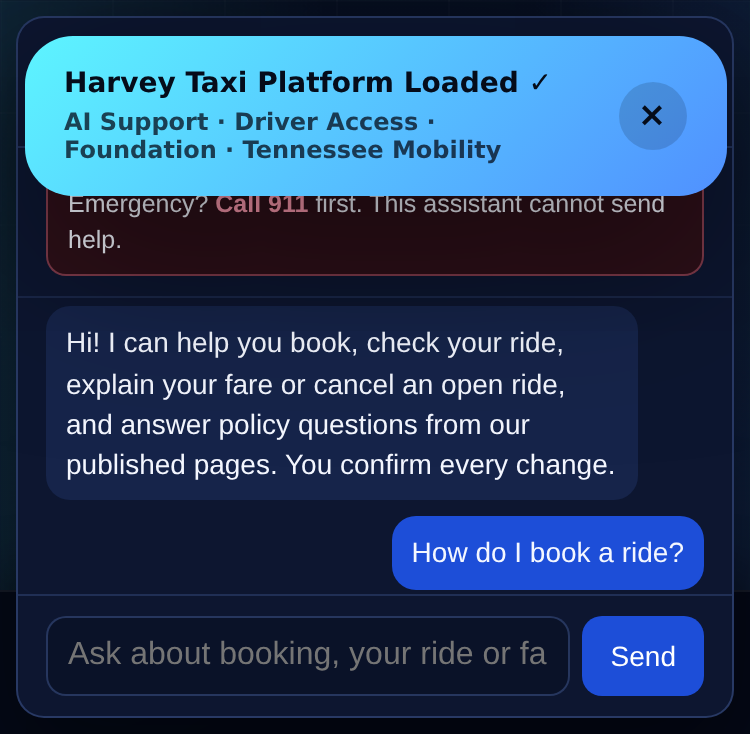
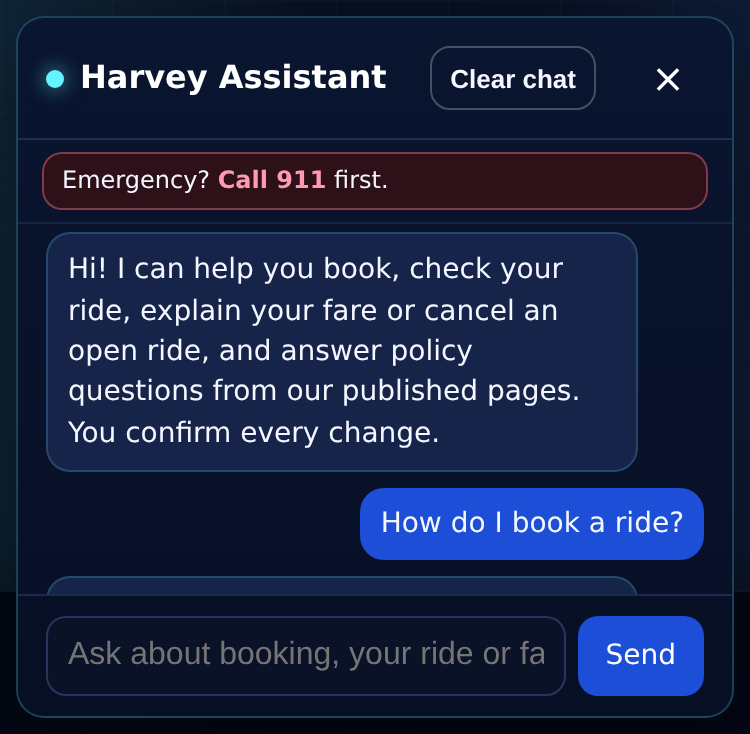
Hide welcome toast and teaser while Harvey Assistant is open; assert nothing covers the panel

diff --git a/test/index-assistant.browser.test.js b/test/index-assistant.browser.test.js
@@ -132,6 +132,19 @@ describeWithBrowser("Harvey Taxi Mobile index page: the chat on small phones", (
       if (SHOTS) await page.screenshot({ path: path.join(SHOTS, `${phone.name}-chat.png`) });
       const panelVisible = await page.evaluate(() => { const p = document.getElementById("htaPanel"); return Boolean(p && p.classList.contains("open")); });
       expect(panelVisible).toBe(true);
+      // Nothing on the page (welcome toast, teaser) sits over the panel's
+      // header, 911 line or input.
+      const onTop = await page.evaluate(() => {
+        const p = document.getElementById("htaPanel");
+        return ["header, .hta-head", ".hta-911", "input[type=text]"].map((sel) => {
+          const n = p.querySelector(sel);
+          if (!n) return `${sel}: missing`;
+          const r = n.getBoundingClientRect();
+          const hit = document.elementFromPoint(r.left + r.width / 2, r.top + Math.min(r.height / 2, 10));
+          return p.contains(hit) ? "ok" : `${sel} under ${hit && (hit.className || hit.tagName)}`;
+        });
+      });
+      expect(onTop).toEqual(["ok", "ok", "ok"]);
 
       await page.fill("#htaPanel input[type=text]", "How do I book a ride?");
       await page.press("#htaPanel input[type=text]", "Enter");

diff --git a/public/index.html b/public/index.html
@@ -1039,6 +1039,10 @@
     /* ============================================================
        TOAST / WELCOME BANNER
        ============================================================ */
+    /* While Harvey Assistant is open, the welcome toast and the teaser
+       bubble would sit on top of its header and 911 line. Hide them. */
+    body:has(#htaPanel.open) .welcome-banner,
+    body:has(#htaPanel.open) .ai-teaser-bubble { display: none; }
     .welcome-banner {
       position: fixed;
       top: 18px;
